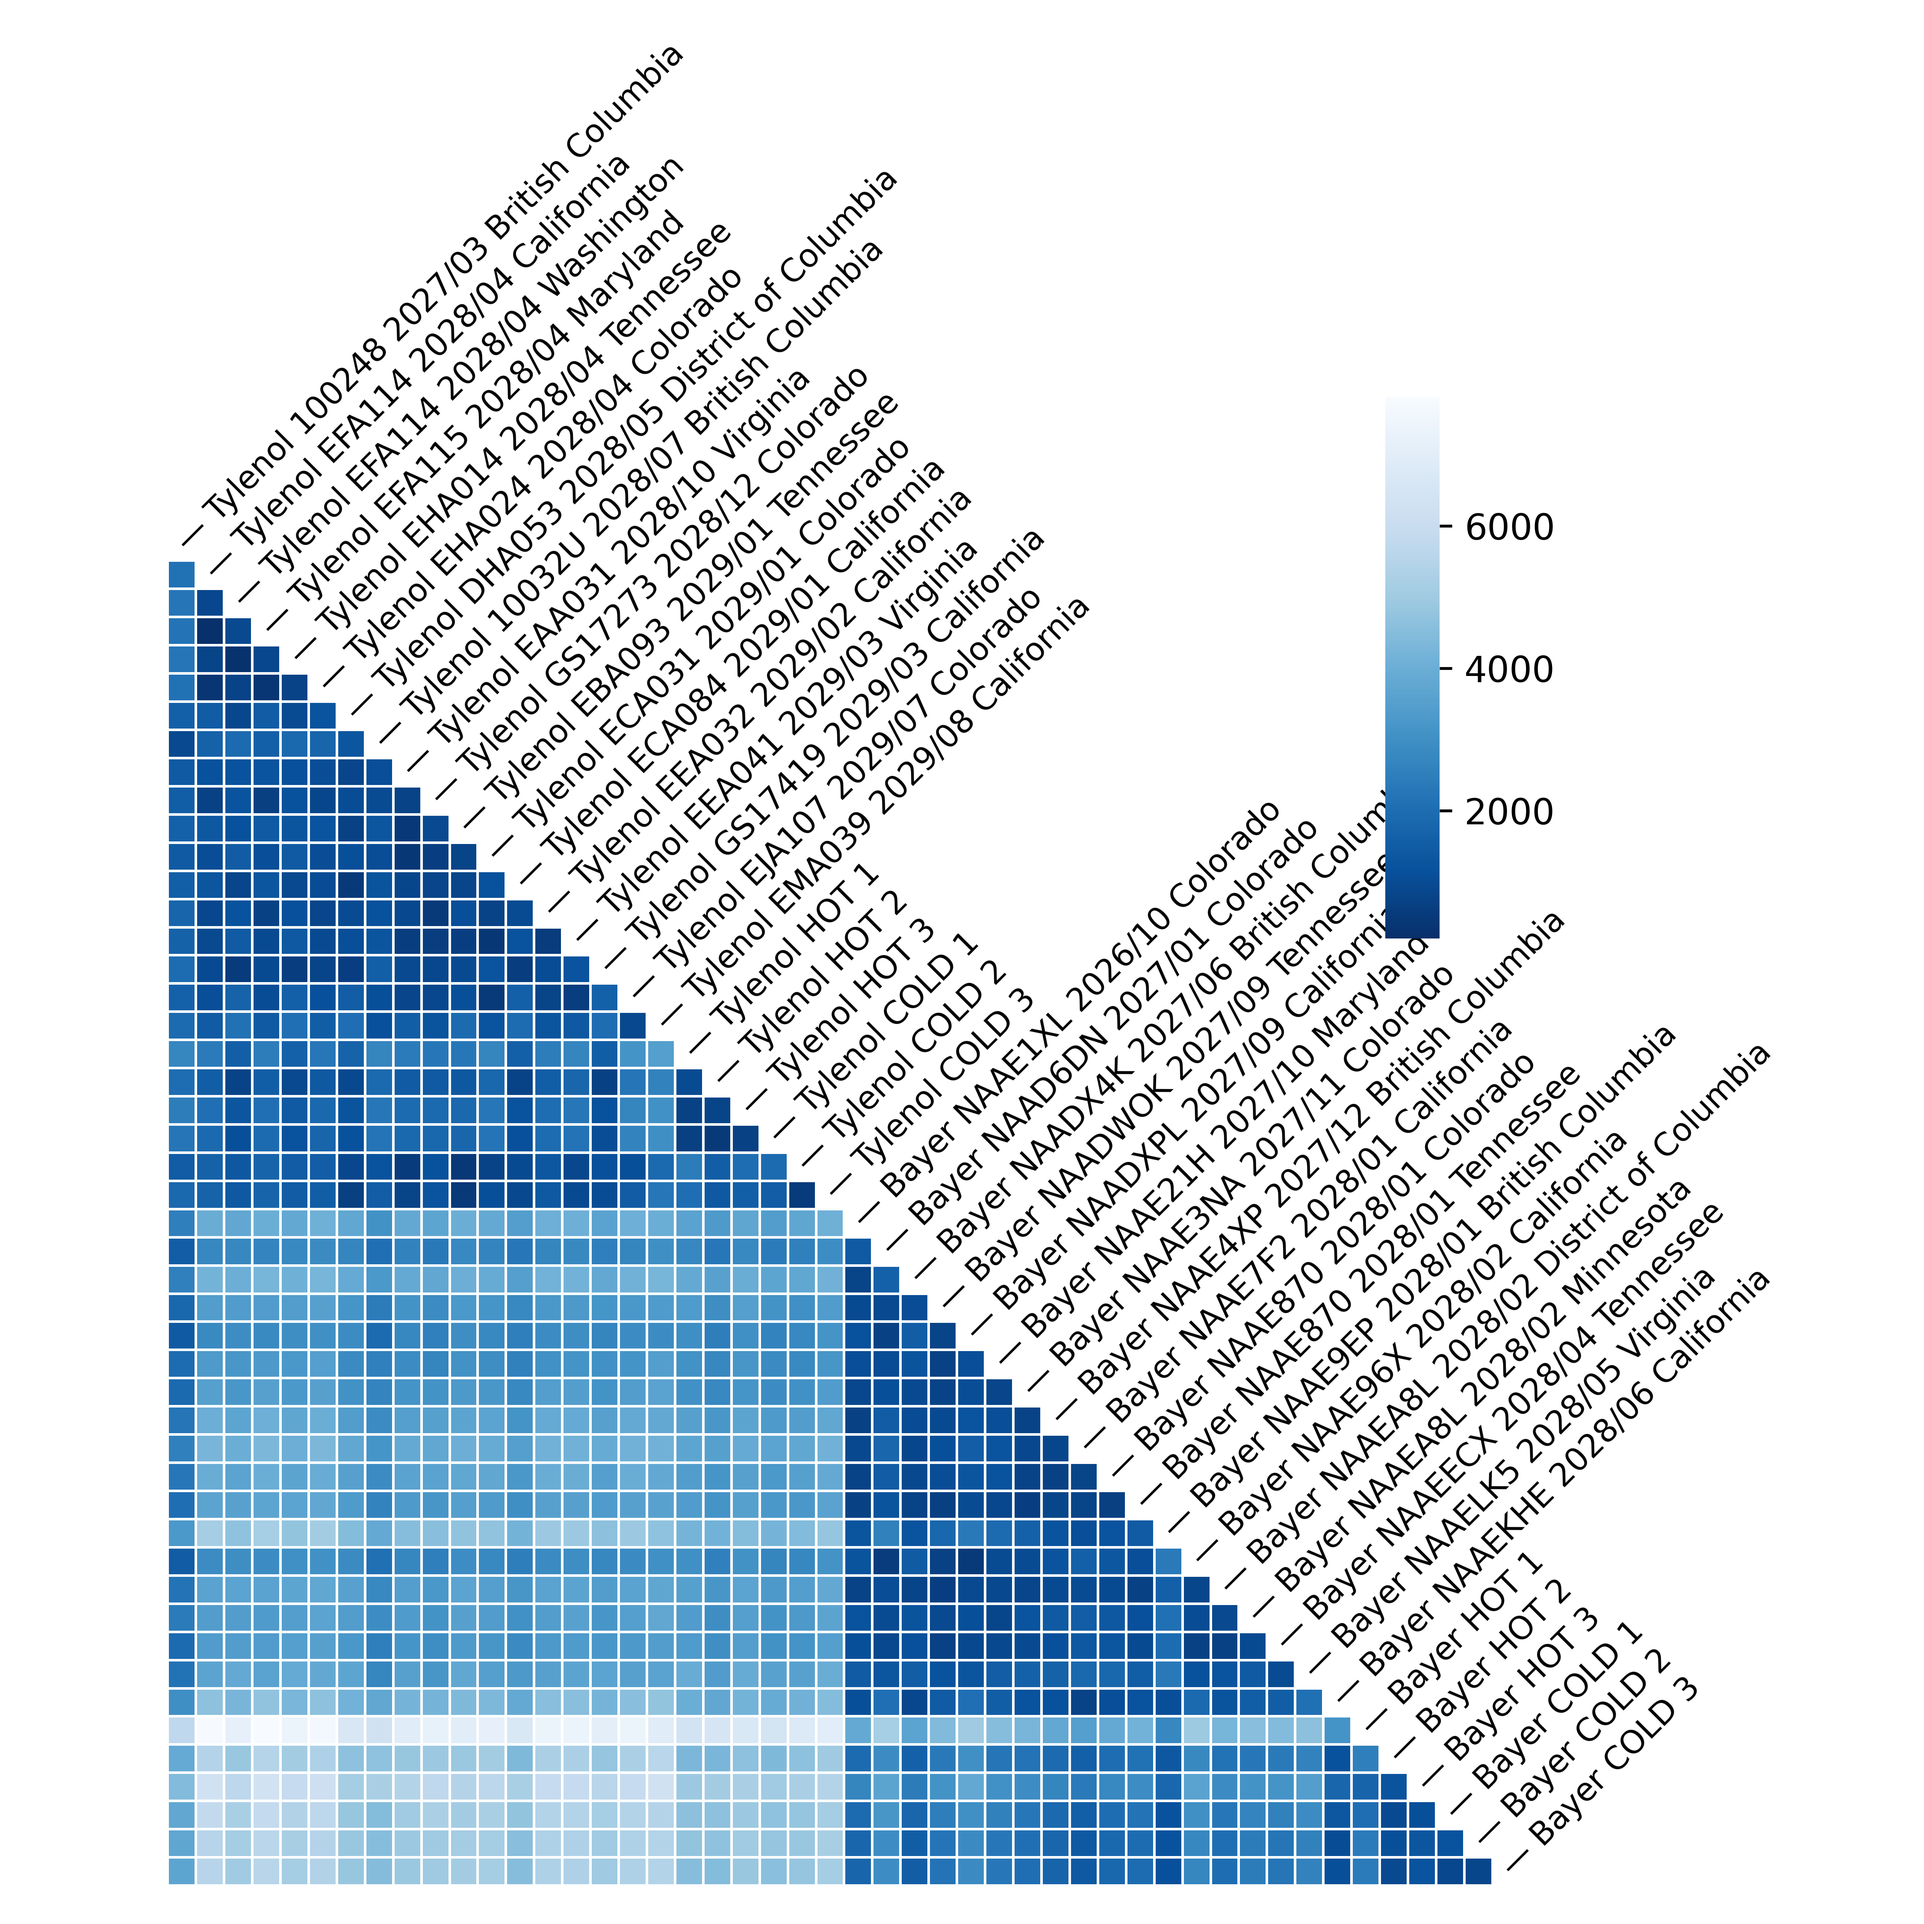
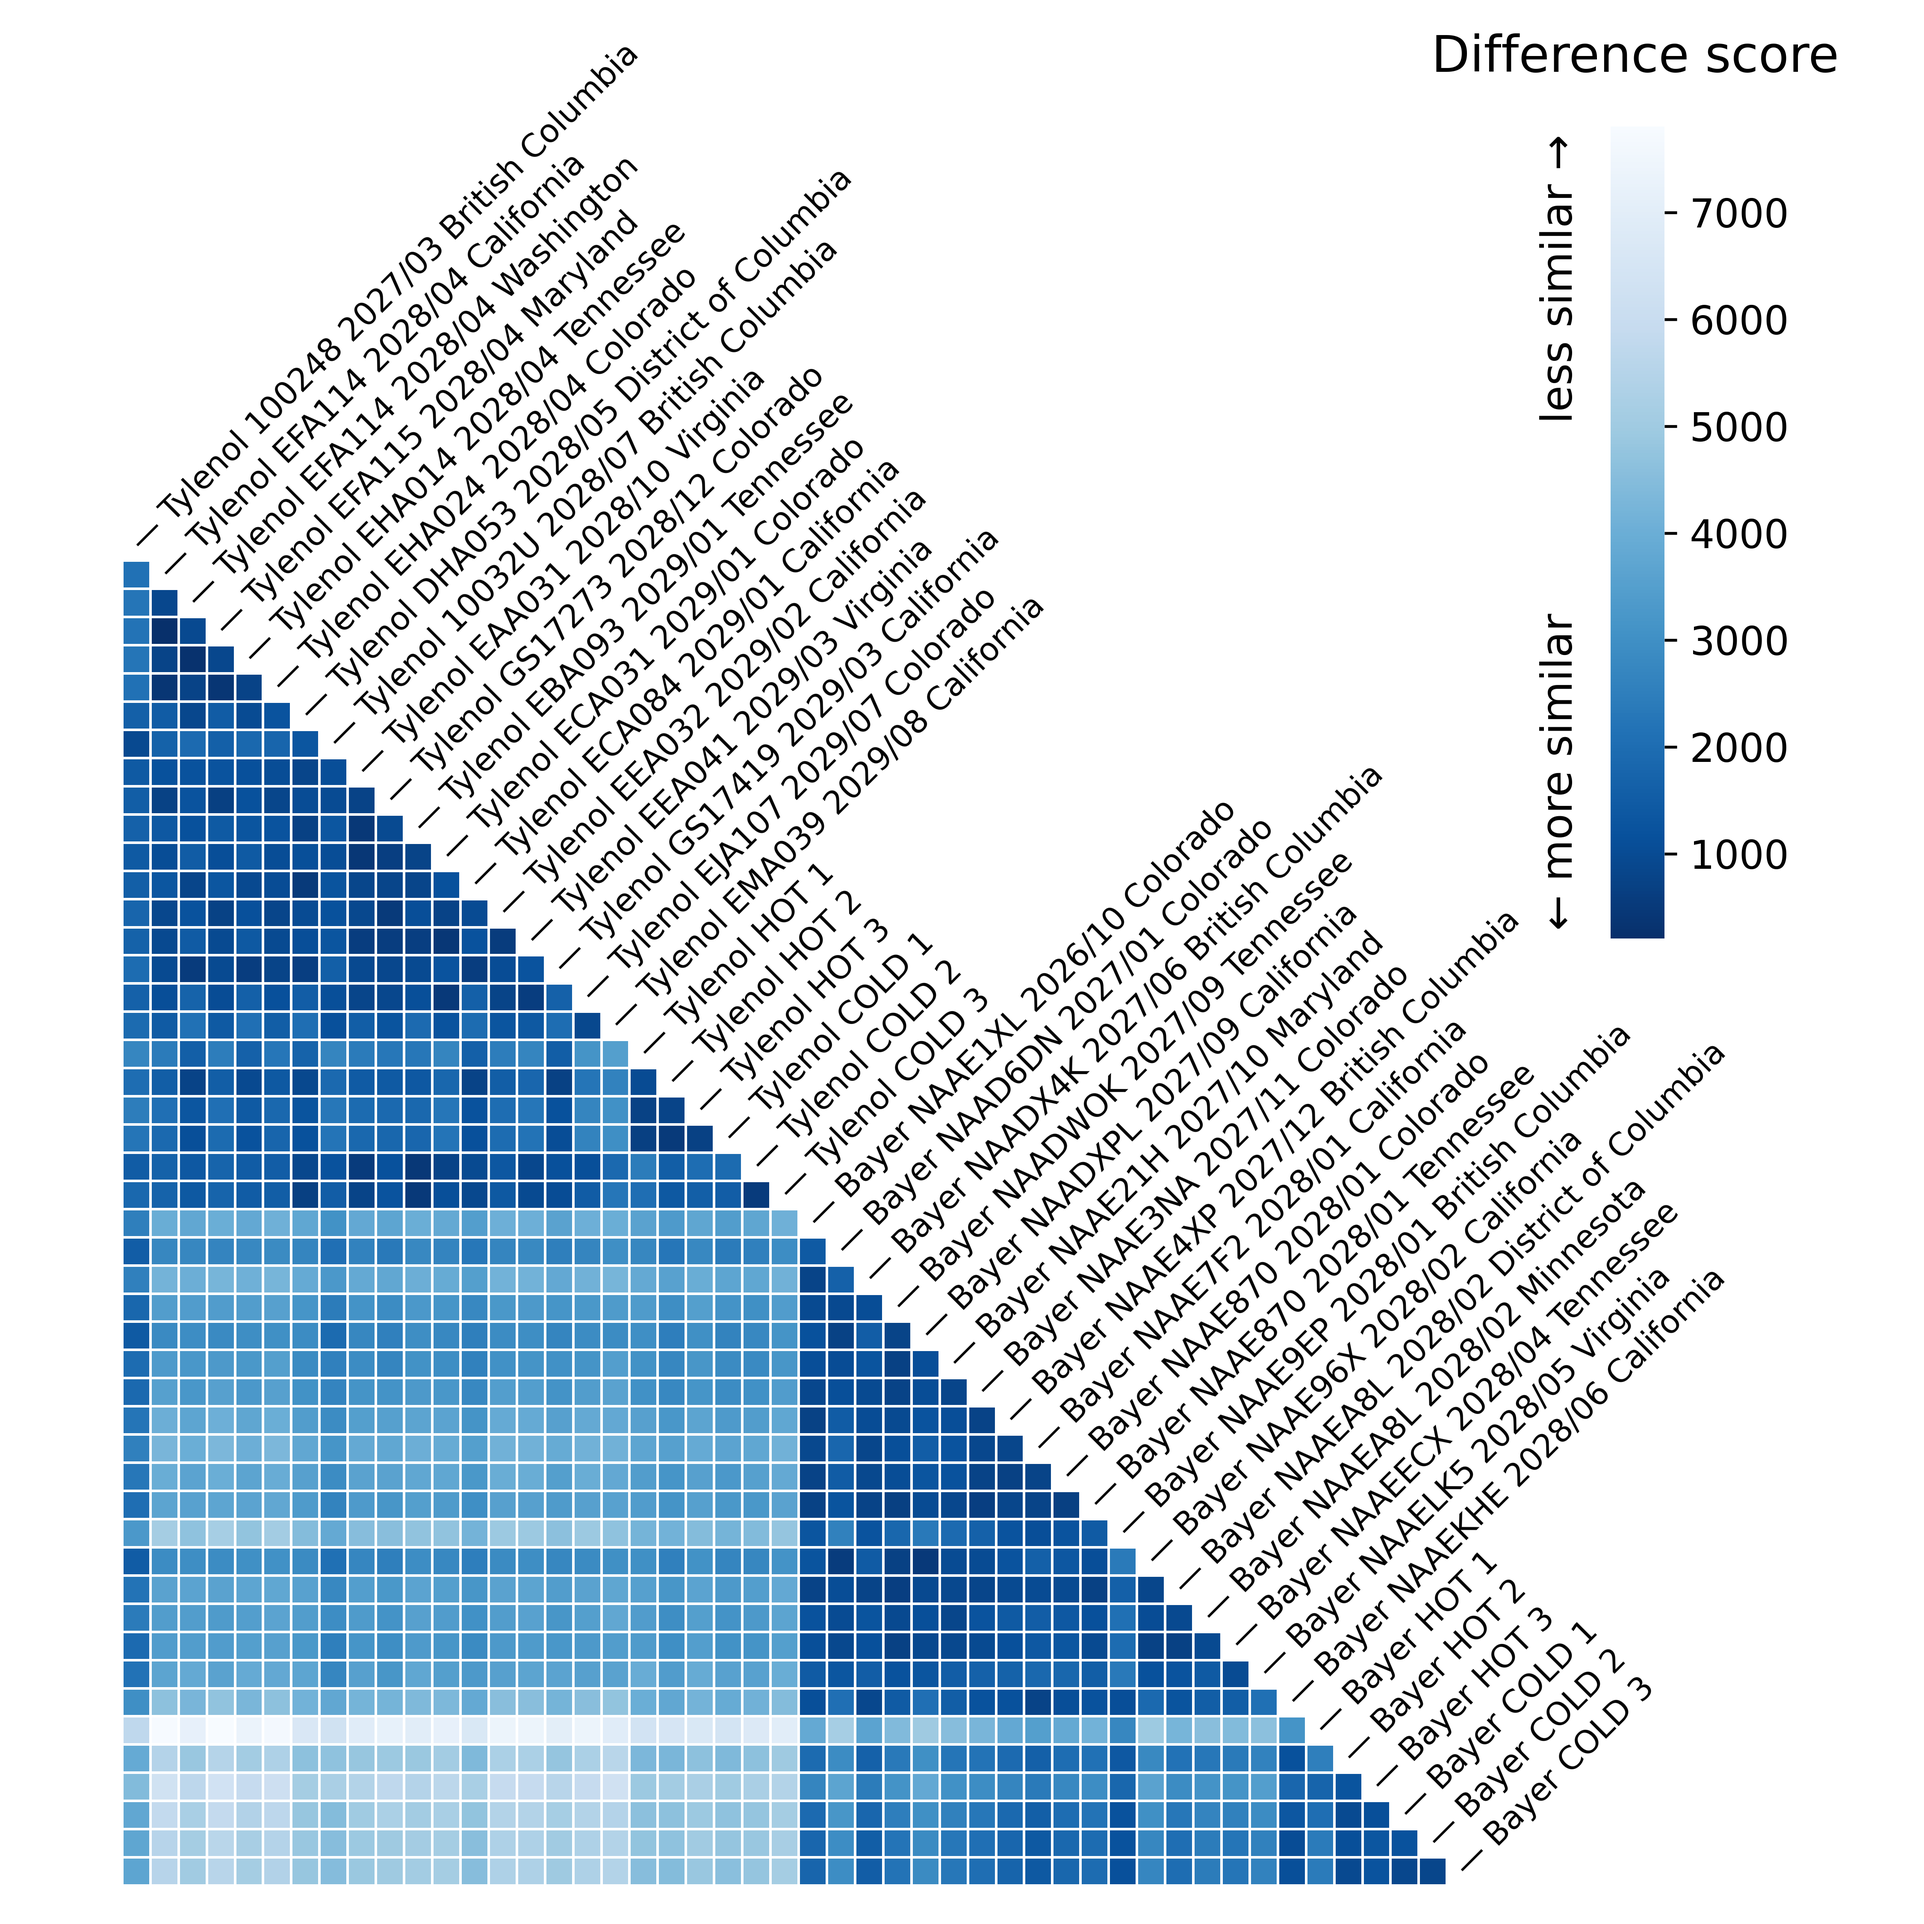
finalizing heatmaps

Changed region(s): [[0.0622, 0.0311, 0.9333, 0.9956], [0.7467, 0.0, 0.8711, 0.0311]]

diff --git a/df-heatmap.py b/df-heatmap.py
@@ -5,6 +5,7 @@ import seaborn as sns
 import numpy
 from matplotlib.colors import LogNorm
 import argparse
+import matplotlib.ticker as tkr # Import the ticker module
 
 parser = argparse.ArgumentParser()
 parser.add_argument("filename")
@@ -155,11 +156,21 @@ if args.figure == "aspirin":
 	cbar.ax.tick_params(labelsize=13)
 	plt.text(0.85, 0.95, 'Difference score', horizontalalignment="center", verticalalignment="center", transform=fig.transFigure, size=16)
 elif args.figure == "bayer_tylenol_only":
-	cbar_ax = ax.inset_axes([0.9, 0.7, 0.04, 0.4])
-	sns.heatmap(bigtable, mask=mask, cmap="Blues_r", linewidth=0.5, square=True, cbar_ax=cbar_ax)   # linear scale
+	cbar_ax = ax.inset_axes([1.10, 0.7, 0.04, 0.6])
+	heatmapax = sns.heatmap(bigtable, mask=mask, cmap="Blues_r", linewidth=0.5, square=True, cbar_ax=cbar_ax)   # linear scale
+	cbar = heatmapax.collections[0].colorbar
+	cbar.set_label('← more similar              less similar →', rotation=90, labelpad=-70, size=12)
+	cbar.ax.tick_params(labelsize=11)
+	plt.text(0.85, 0.97, 'Difference score', horizontalalignment="center", verticalalignment="center", transform=fig.transFigure, size=14)
 elif args.figure == "variety":
-	cbar_ax = ax.inset_axes([0.9, 0.7, 0.04, 0.4])
-	sns.heatmap(bigtable, mask=mask, cmap="Blues_r", linewidth=0.5, norm=LogNorm(), square=True, cbar_ax=cbar_ax)   # log scale
+	formatter = tkr.ScalarFormatter()
+	formatter.set_scientific(False)
+	cbar_ax = ax.inset_axes([0.94, 0.44, 0.04, 0.6])
+	heatmapax = sns.heatmap(bigtable, mask=mask, cmap="Blues_r", linewidth=0.5, norm=LogNorm(), square=True, cbar_ax=cbar_ax, cbar_kws={"format": formatter})   # linear scale
+	cbar = heatmapax.collections[0].colorbar
+	cbar.set_label('← more similar                           less similar →', rotation=90, labelpad=-75, size=12)
+	cbar.ax.tick_params(labelsize=11)
+	plt.text(0.85, 0.95, 'Difference score', horizontalalignment="center", verticalalignment="center", transform=fig.transFigure, size=14)
 
 
 pointer = "— "
